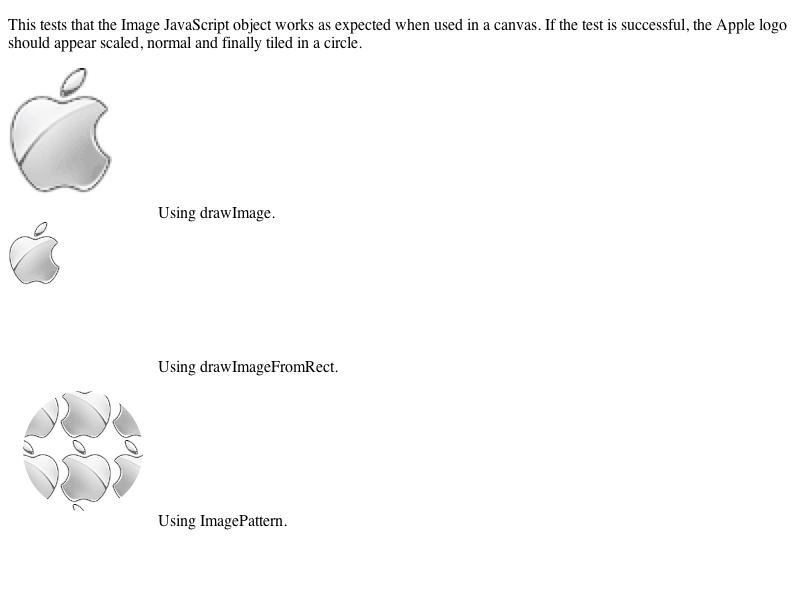
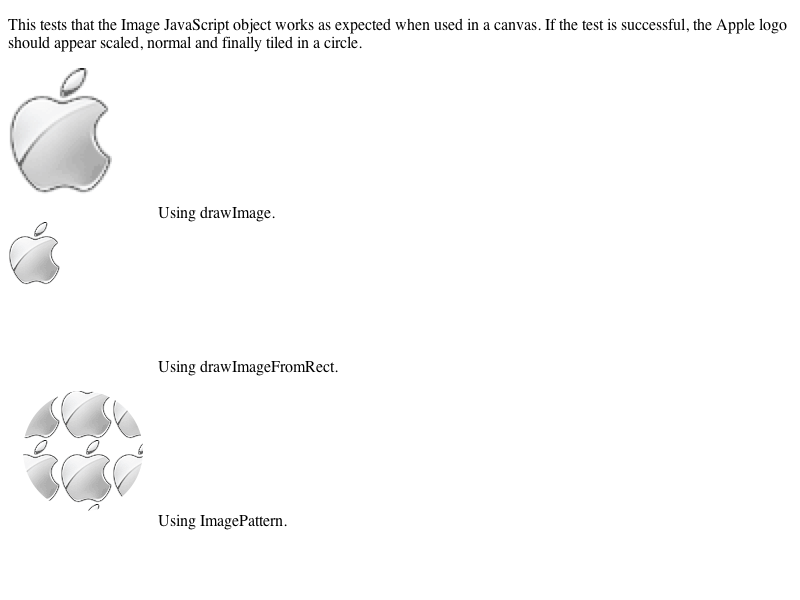
2006-01-31  Anders Carlsson  <andersca@mac.com>
Reviewed by John.

        - fix http://bugzilla.opendarwin.org/show_bug.cgi?id=6964
        ImagePatterns are always rendered mirrored
        
        * khtml/ecma/kjs_html.cpp:
        (KJS::ImagePattern::createPattern):
        Don't mirror the x coordinate when creating the pattern.

git-svn-id: https://svn.webkit.org/repository/webkit/trunk@12493 268f45cc-cd09-0410-ab3c-d52691b4dbfc

Changed region(s): [[0.0312, 0.66, 0.1875, 0.84]]

diff --git a/WebCore/khtml/ecma/kjs_html.cpp b/WebCore/khtml/ecma/kjs_html.cpp
@@ -5083,7 +5083,7 @@ CGPatternRef ImagePattern::createPattern(CGAffineTransform transform)
         return 0;
           
     CGAffineTransform patternTransform = transform;
-    patternTransform = CGAffineTransformScale(patternTransform, -1, -1);
+    patternTransform = CGAffineTransformScale(patternTransform, 1, -1);
     patternTransform = CGAffineTransformTranslate(patternTransform, 0, -m_cachedImage->image().height());
 
     return CGPatternCreate(this, _bounds, patternTransform, _rw, _rh, kCGPatternTilingConstantSpacing, true, &patternCallbacks);
